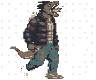
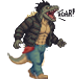
Wire in the upgraded idle/walk/punch/climb/roar sprites
These were newly-generated art sitting uncommitted in the working tree
from earlier in the session (idle, punch, climb_a, and climb_b upgraded
to the same 400x400 AI-detailed style as the combat sprites; walk_a,
walk_b, roar, and foe-gunship touched up at their native resolution) —
previously mistaken for unexplained changes and left un-integrated, so
the merged build was still shipping the old placeholder art for these
poses. Anchors recomputed from each PNG's own bounding box: the 400x400
sprites use the same bbox-scaled-to-78px-reference formula as the combat
sprites, the native-resolution ones anchor directly off their own bbox.

diff --git a/assets/kwadzilla-game.js b/assets/kwadzilla-game.js
@@ -35,13 +35,17 @@
   // original procedural pose function's local origin (0,0) used to be.
   // Computed once from each PNG's actual opaque bounding box, not guessed.
   var KWAD_META = {
-    idle:      { w: 96, h: 80, ax: 44.0, ay: 79 },
-    walk_a:    { w: 96, h: 80, ax: 45.0, ay: 79 },
-    walk_b:    { w: 96, h: 80, ax: 47.5, ay: 79 },
-    punch:     { w: 96, h: 80, ax: 47.5, ay: 79 },
-    climb_a:   { w: 96, h: 80, ax: 46.0, ay: 79 },
-    climb_b:   { w: 96, h: 80, ax: 50.5, ay: 79 },
-    roar:      { w: 96, h: 80, ax: 47.0, ay: 79 },
+    // idle/punch/climb_a/climb_b are the newer 400x400 AI-detailed art;
+    // anchors are bbox-scaled to a 78px reference height, same formula as
+    // punch_l etc. below. walk_a/walk_b/roar are still native-resolution
+    // art, anchored directly off their own bbox.
+    idle:      { w: 109.9, h: 109.9, ax: 54.9, ay: 93.9 },
+    walk_a:    { w: 96, h: 80, ax: 44.5, ay: 80 },
+    walk_b:    { w: 80, h: 80, ax: 39.0, ay: 79 },
+    punch:     { w: 106.8, h: 106.8, ax: 57.2, ay: 91.9 },
+    climb_a:   { w: 93.7, h: 93.7, ax: 46.8, ay: 85.7 },
+    climb_b:   { w: 95.7, h: 95.7, ax: 46.9, ay: 84.7 },
+    roar:      { w: 80, h: 80, ax: 41.5, ay: 79 },
     // Scaled/anchored from each source PNG's own bounding box so the
     // character reads at the same size as punch.png — see the comment on
     // pickKwadFrame for how these map to real game moves.
